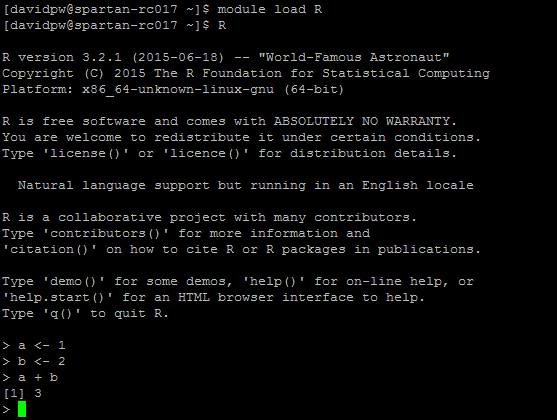
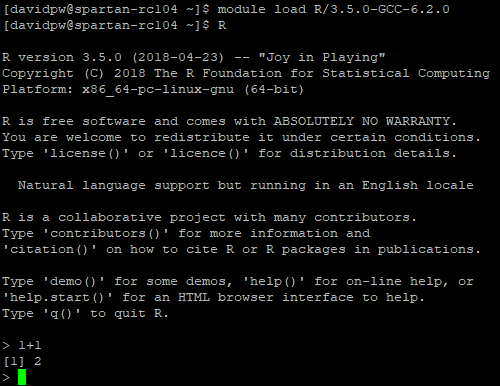
Update Intro to spartan guide and rebuild site

Changed region(s): [[0.0, 0.2798, 0.96, 1.0], [0.0, 0.1244, 0.99, 0.2487], [0.0, 0.0, 0.9, 0.0933]]

diff --git a/docs/introduction-to-spartan.html b/docs/introduction-to-spartan.html
@@ -25,7 +25,7 @@
 <meta name="author" content="David Wilkinson">
 
 
-<meta name="date" content="2018-10-17">
+<meta name="date" content="2019-04-03">
 
   <meta name="viewport" content="width=device-width, initial-scale=1">
   <meta name="apple-mobile-web-app-capable" content="yes">
@@ -217,16 +217,15 @@ code > span.in { color: #60a0b0; font-weight: bold; font-style: italic; } /* Inf
 <img src="Images/spartanlogo.png" />
 </center>
 <hr />
-<p>Spartan is the University of Melbourne’s general purpose hybrid traditional high performance computing system (HPC) with cloud instances from the NeCTAR Research Cloud and attached Research Data Storage Services (RDSS).</p>
+<p>Spartan is the University of Melbourne’s high performance computing system (HPC). It combines high-performance bare-metal compute nodes (somewhere on campus) with cloud instances from the NeCTAR Research Cloud and attached Research Data Storage Services (RDSS).</p>
 <p>It is designed to suit the needs of researchers whose desktop/laptop is not up to the particular task. Models running slow, datasets are too big, not enough cores, application licensing issues, etc.</p>
 <p>Spartan consists of:</p>
 <ul>
 <li>a management node for system administrators,</li>
-<li>a log in node for users to connect to the system and submit jobs,</li>
-<li>a small number of ‘bare metal’ compute nodes for multinode tasks,</li>
-<li>any ‘bare metal’ user-procured hardware (e.g., departmental nodes),</li>
-<li>vHPC cloud compute nodes for overflow and GPGPU tasks, and</li>
-<li>general cloud compute nodes.</li>
+<li>two log in nodes for users to connect to the system and submit jobs,</li>
+<li>‘bare metal’ compute nodes,</li>
+<li>cloud compute nodes, and</li>
+<li>GPUGPU compute nodes.</li>
 </ul>
 </div>
 <div id="accessing-spartan" class="section level2">
@@ -239,7 +238,7 @@ code > span.in { color: #60a0b0; font-weight: bold; font-style: italic; } /* Inf
 <li>Need to create a project</li>
 <li>Need a project leader (you), and you can invite collaborators for joint projects</li>
 <li>Need a project title/description to demonstrate research goals and/or research support</li>
-<li>Takes ~2 days for approval</li>
+<li>Takes ~2 days for approval (as of 2017)</li>
 </ul>
 <hr />
 <center>
@@ -280,7 +279,7 @@ code > span.in { color: #60a0b0; font-weight: bold; font-style: italic; } /* Inf
 <img src="Images/WinSCP_steps.png" />
 </center>
 <hr />
-<p>Inside a WinSCP session you will have dual file explorer windows: your local machine (left) and your Spartan home directory (right). If you have not made your initial log-in to Spartan via your SSH client you will have a blank white screen in the right-hand window. Transferring files between the two directories is achieved with a simple drag-and-drop interface.</p>
+<p>Inside a WinSCP session you will have dual file explorer windows: your local machine (left) and Spartan (right). If you have not made your initial log-in to Spartan via your SSH client you will have a blank white screen in the right-hand window. Transferring files between the two directories is achieved with a simple drag-and-drop interface.</p>
 <hr />
 <center>
 <img src="Images/WinSCP_home.png" />
@@ -303,7 +302,7 @@ code > span.in { color: #60a0b0; font-weight: bold; font-style: italic; } /* Inf
 <img src="Images/terminal_ssh_steps.png" />
 </center>
 <hr />
-<p>As for Windows, your first log-in to Spartan via the SSH client creates your home directory on Spartan so it is important to do that before setting up your SFTP client.</p>
+<p>Same as for Windows, your first log-in to Spartan via the SSH client creates your home directory on Spartan so it is important to do that before setting up your SFTP client.</p>
 <p>SFTP is also installed on most OSX and linux versions, so you could transfer files to Spartan directly from the terminal (do <code>man sftp</code> in the terminal if you’re interested in that). However it’s normally easier to use a SFTP client with a graphical user interface. One nice option for OSX (that also works on Windows) is <a href="https://cyberduck.io">Cyberduck</a>. Once installed, you can add a new connection to Spartan with the following steps:</p>
 <ol style="list-style-type: decimal">
 <li>Clicking on the <code>+</code> in the lower-left corner</li>
@@ -328,13 +327,13 @@ code > span.in { color: #60a0b0; font-weight: bold; font-style: italic; } /* Inf
 </div>
 <div id="log-in-to-spartan" class="section level3">
 <h3><span class="header-section-number">4.2.3</span> Log in to Spartan</h3>
-<p>Now that you have everything in place to access Spartan, open an SSH session (in PuTTY or Terminal). as before, this wont display characters as you type your password.</p>
+<p>Now that you have everything in place to access Spartan, open an SSH session (in PuTTY or Terminal). As before, this wont display characters as you type your password.</p>
 <hr />
 <center>
 <img src="Images/Spartan_log_in.png" />
 </center>
 <hr />
-<p>The text that loads at the beginning gives you the usual university IT policy spiel, a couple of getting started prompts, a warning about the log-in node, and the obligatory 300 reference.</p>
+<p>The text that loads at the beginning gives you the usual university IT policy spiel, a couple of getting started prompts, a warning about the log-in node, and the obligatory 300 reference. It also has a <em>Daily Weather Report</em> updated each morning to show how busy Spartan is. As it is only updated once a day though it is only a rough indication and can vary wildly if lots of jobs start or finish.</p>
 <hr />
 <center>
 <img src="Images/Spartan_300.png" />
@@ -347,7 +346,7 @@ code > span.in { color: #60a0b0; font-weight: bold; font-style: italic; } /* Inf
 <ul>
 <li><code>h</code>: help, shows you the keyboard shortcuts</li>
 <li><code>q</code>: quit the document and go back to the Spartan interface</li>
-<li><code>^</code> is used in place of the control/command button, so <code>^V</code> is Ctrl+V</li>
+<li><code>^</code> is shorthand for the control/command button, so <code>^V</code> is Ctrl+V / Cmd+V</li>
 <li><code>Enter/Return</code> will let you advance by one line</li>
 <li><code>^Y</code> will let you go back by one line</li>
 <li><code>^V</code> will let you advance by one window</li>
@@ -363,12 +362,12 @@ code > span.in { color: #60a0b0; font-weight: bold; font-style: italic; } /* Inf
 </div>
 <div id="using-spartan" class="section level2">
 <h2><span class="header-section-number">4.3</span> Using Spartan</h2>
-<p>The log-in node on Spartan is a shared resource between all users and is only allocated the memory to handle log-ins and job submission. Do not run jobs in the log-in node or the admins will get upset and kill the job. There are two ways to get out of the log-in node and into dedicated compute nodes: <code>sinteractive</code> and <code>sbatch</code>.</p>
+<p>The log-in nodes on Spartan are a shared resource between all users and is only allocated the memory to handle log-ins and job submission. <strong>Do not run jobs in the log-in node or the admins will get upset and kill the job</strong>. There are two ways to get out of the log-in node and into dedicated compute nodes: <code>sinteractive</code> and <code>sbatch</code>.</p>
 <div id="sinteractive" class="section level3">
 <h3><span class="header-section-number">4.3.1</span> sinteractive</h3>
-<p>The <code>sinteractive</code> command will give you access to a compute node (as soon as available) where you can work interactively with your job. While you can submit an entire job in this method, that is better saved for <code>sbatch</code> and <code>sinteractive</code> used for testing/debugging. There are default settings for <code>sinteractive</code> which should be enough for most uses, but they can be modified if needed like so:</p>
+<p>The <code>sinteractive</code> command will give you access to a compute node (as soon as available) where you can work interactively with your job. While you can submit an entire job in this method, that is better saved for <code>sbatch</code> while <code>sinteractive</code> is used for testing/debugging. There are default settings for <code>sinteractive</code> which should be enough for most uses, but they can be modified if needed like so:</p>
 <pre><code>sinteractive --time=00:10:00 --nodes=1 --ntasks=1 --cpus-per-task=2</code></pre>
-<p>This will give you access to one node to perform one task with two processors for ten minutes (default values I think). Lets open a default node and explore some basic commands. Type <code>sinteractive</code>. This submits a request for a default compute node (1), and you have to wait for the resource to become available (2) before you can continue.</p>
+<p>This will give you access to one node to perform one task with two processors for ten minutes (the default values). Lets open a default node and explore some basic commands. Type <code>sinteractive</code>. This submits a request for a default compute node (1), and you have to wait for the resource to become available (2) before you can continue.</p>
 <hr />
 <center>
 <img src="Images/Spartan_sinteractive.png" />
@@ -380,7 +379,8 @@ code > span.in { color: #60a0b0; font-weight: bold; font-style: italic; } /* Inf
 <img src="Images/Spartan_ls.png" />
 </center>
 <hr />
-<p>The <code>cd</code> command will let you change your current directory. As Spartan is Linux based it uses / not  for directories (unlike Windows). The  character is used to say that the preceding term is a special character. Lets change into a sub-folder and see what is inside. Spartan lets you pre-fill file paths/names using the tab key like R, but it will pre-fill everything until a choice needs to be made, and won’t provide options at that stage, but will complete everything once no more divergences exist.</p>
+<p>The <code>cd</code> command will let you change your current directory. As Spartan is Linux based it uses / not \ for directories (unlike Windows). The \ character is used to say that the preceding term is a special character. Lets change into a sub-folder and see what is inside. Spartan lets you pre-fill filepaths/names using the tab key like R but slightly differently. It will pre-fill everything until a choice needs to be made and then pressing the tab key twice will list some options. Once only one exist then it will finish the autocomplete.</p>
+<p>The <code>pwd</code> command prints your current working directory. Lets run a sequence of <code>pwd</code>, <code>cd</code>, and <code>ls</code> to see them in action.</p>
 <hr />
 <center>
 <img src="Images/Spartan_cd.png" />
@@ -392,7 +392,17 @@ code > span.in { color: #60a0b0; font-weight: bold; font-style: italic; } /* Inf
 <img src="Images/Spartan_module_avail.png" />
 </center>
 <hr />
-<p>Loading a particular module requires two commands: <code>module load &lt;module name&gt;</code> (to load the module into the node’s environment) and <code>&lt;module name&gt;</code> (to start the program). To load R for example:</p>
+<p>A massive list of all modules isn’t that useful! We can return more targetted lists either by adding a keyword to <code>module avail</code> or by using <code>module spider</code>. <code>module avail</code> searches for the keyword in the “full” module name so something like <code>module avail R</code> will return every module with the letter <em>r</em> in it so use something more specific like <code>module avail R/3.5</code> instead to return all versions of the R module that are version 3.5.*. <code>module spider</code> is a fuzzy match to the “actual” name of the module so <code>module spider R</code> will return all modules that are the closest match to the keyword, and a list of other module “actual” names that might also match.</p>
+<hr />
+<center>
+<img src="Images/Spartan_module_avail_R.png" />
+</center>
+<hr />
+<center>
+<img src="Images/Spartan_module_spider.png" />
+</center>
+<hr />
+<p>There are two steps to loading a particular module. First, the <code>module load &lt;module&gt;</code> command to load the module into the compute node’s environment, and then <code>&lt;module name&gt;</code> to start the program. If you don’t specify the specific module version in <code>module load &lt;module&gt;</code> then it will load whichever version is set as the default (typically the newest one). For a variety of reasons it is best to always load a specific version! To load R for example:</p>
 <hr />
 <center>
 <img src="Images/Spartan_module_load.png" />
@@ -407,25 +417,41 @@ code > span.in { color: #60a0b0; font-weight: bold; font-style: italic; } /* Inf
 <img src="Images/slurm.jpg" />
 </center>
 <hr />
-<p>This system tracks resources throughout the cluster and builds a queue of jobs to run, and when resources are available the job scheduler will direct your job to a compute node to run.</p>
+<p>This system tracks resources throughout the cluster and manages a queue of jobs. When resources are available the job scheduler will direct your job to a compute node to run.</p>
 <hr />
 <center>
 <img src="Images/Spartan_queue_example.png" />
 </center>
 <hr />
-<p>To submit a job using the <code>sbatch</code> command you need to write a slurm file that sets up your instance (amount of memory, number of processors, etc) and runs your model. Note for Windows users: write these in Notepad++ as Windows and Linux use different line break notation (/r/n vs /n) and standard text files written on Windows won’t run on Spartan.</p>
-<hr />
-<center>
-<img src="Images/Slurm_file_example.png" />
-</center>
-<hr />
-<p>Slurm files can be as simple or as complex as required depending on the job you want to run. Slurm files always need to begin with <code>#!/bin/bash</code> on the first line. Why? It tells the shell what kind of interpretor to run (in this case bash). On subsequent lines you set up your instance first using <code>#SBATCH &lt;your command here&gt;</code> and then the commands to run your job. Some useful <code>#SBATCH</code> commands to consider are:</p>
+<p>To submit a job using the <code>sbatch</code> command you need to write a <code>slurm</code> script that sets up your instance (amount of memory, number of processors, etc) and runs your model. Note for Windows users: write these in Notepad++ as Windows and Linux use different line break notation (/r/n vs /n) and standard text files written on Windows won’t run on Spartan. A basic <code>slurm</code> file for R might look like this (from Spartan’s own examples):</p>
+<div class="sourceCode"><pre class="sourceCode bash"><code class="sourceCode bash"><span class="co">#!/bin/bash</span>
+
+<span class="co"># To give your job a name, replace &quot;MyJob&quot; with an appropriate name</span>
+<span class="co">#SBATCH --job-name=Rsample</span>
+<span class="co">#SBATCH -p cloud</span>
+
+<span class="co"># For R need to run on single CPU</span>
+<span class="co">#SBATCH --ntasks=1</span>
+
+<span class="co"># set your minimum acceptable walltime=hours:minutes:seconds</span>
+<span class="co">#SBATCH -t 0:15:00</span>
+
+<span class="co"># Specify your email address to be notified of progress.</span>
+<span class="co">#SBATCH --mail-user=youreamiladdress@unimelb.edu</span>
+<span class="co">#SBATCH --mail-type=ALL</span>
+
+<span class="co"># Load the environment variables for R</span>
+<span class="ex">module</span> load R/3.5.0-spartan_gcc-6.2.0 
+
+<span class="co"># The command to actually run the job</span>
+<span class="ex">R</span> --vanilla <span class="op">&lt;</span> tutorial.R </code></pre></div>
+<p><code>slurm</code> scripts can be as simple or as complex as required depending on the job you want to run. <code>slurm</code> scripts always need to begin with <code>#!/bin/bash</code> on the first line. Why? It tells the shell what kind of interpretor to run (in this case <code>bash</code>). Like <code>R</code>, anything following a <code>#</code> in <code>bash</code>/<code>slurm</code> is interpreted as a comment. However, <code>#SBATCH</code> is recognised as special syntax to control job parameters. You can mix commented lines, <code>#SBATCH</code> lines, and empty lines at the start of your script, but once the first “actual command” is run all subsequent <code>#SBATCH</code> lines are treated as comments only. Some useful <code>#SBATCH</code> commands to consider are:</p>
 <ul>
 <li><code>#SBATCH --job-name=&lt;name&gt;</code>: Lets you give your job a name alongside its job id. Useful if you’re running lots of jobs at once. By default it sets it to your file name, or replace <name> with your name of choice like this:</li>
 </ul>
 <pre><code>#SBATCH --job-name=MyJob</code></pre>
 <ul>
-<li><code>#SBATCH -p &lt;partition&gt;</code>: This is where you select which partition on Spartan your job will run. For most jobs you will set your partition as <code>cloud</code> which can run single node jobs of up to 8 CPUs and up to 50GB of memory. For multi-node jobs or &gt;50GB of memory set it as <code>physical</code> (up to 200GB), and if you have access to a dedicated partition then use <code>your partition name</code>. In most cases you will use the following:</li>
+<li><code>#SBATCH -p &lt;partition&gt;</code>: This is where you select which partition on Spartan your job will run. The <code>cloud</code> partition can only run single node jobs of up to 12 CPUs and 100GB of memory. The <code>physical</code> partition can run single or multi-node jobs of up to 12CPUS and 250GB of memory. There are also other specialty partitions with larger requirements (up to 1500GB of memory) or GPUs as well. If you have access to a dedicated partition then use <code>your partition name</code>. In most cases you will use the following:</li>
 </ul>
 <pre><code>#SBATCH -p cloud</code></pre>
 <ul>
@@ -433,7 +459,7 @@ code > span.in { color: #60a0b0; font-weight: bold; font-style: italic; } /* Inf
 </ul>
 <pre><code>#SBATCH --time=01:00:00   # hours:minutes:seconds format</code></pre>
 <ul>
-<li><code>#SBATCH --nodes=&lt;number&gt;</code>: You need to request an allocation of compute nodes. Most jobs will be single node jobs, but there is the ability to run jobs over multiple nodes that talk to each other. It is not recommended to try running multiple communicating nodes via the cloud partition, use the physical partition instead. To call a single node use the following:</li>
+<li><code>#SBATCH --nodes=&lt;number&gt;</code>: You need to request an allocation of compute nodes. Most jobs will be single node jobs, but there is the ability to run jobs over multiple nodes that talk to each other. It is not recommended to try running multiple communicating nodes via the cloud partition, use the physical partition instead. Multi-node jobs will require using <code>OpenMPI</code> to allow the different nodes to communicate. To call a single node use the following:</li>
 </ul>
 <pre><code>#SBATCH --nodes=1</code></pre>
 <ul>
@@ -441,11 +467,11 @@ code > span.in { color: #60a0b0; font-weight: bold; font-style: italic; } /* Inf
 </ul>
 <pre><code>#SBATCH --ntasks=1</code></pre>
 <ul>
-<li><code>#SBATCH --cpus-per-task=&lt;number&gt;</code>: This informs the SLURM controller that each task will need <em>number</em> of processors per task. Cloud nodes have access to eight cores each. To allocate four processors (like on a quad-core desktop without multi-threading) you would set:</li>
+<li><code>#SBATCH --cpus-per-task=&lt;number&gt;</code>: This informs the SLURM controller that each task will need <em>number</em> of processors per task. To allocate four processors (like on a quad-core desktop without multi-threading) you would set:</li>
 </ul>
 <pre><code>#SBATCH --cpus-per-task=4</code></pre>
 <ul>
-<li><code>#SBATCH --mem=&lt;number&gt;</code>: This is where you nominate the maximum amount of memory required per node (in megabytes). Cloud nodes have access to up to 50GB of memory, physical nodes are used for large jobs of up to 200GB. To request 10GB of memory (remembering that 1GB = 1024MB) you would use:</li>
+<li><code>#SBATCH --mem=&lt;number&gt;</code>: This is where you nominate the maximum amount of memory required per node (in megabytes). Cloud nodes have access to up to 100GB of memory, standard physical nodes are used for large jobs of up to 250GB. Some physical nodes and other specialist partitions will have much larger limits (up to 1500GB). To request 10GB of memory (remembering that 1GB = 1024MB) you would use:</li>
 </ul>
 <pre><code>#SBATCH --mem=10240</code></pre>
 <ul>
@@ -464,17 +490,13 @@ code > span.in { color: #60a0b0; font-weight: bold; font-style: italic; } /* Inf
 </ul>
 <pre><code>#SBATCH --mail-user=&lt;your email here&gt;
 #SBATCH --mail-type=ALL,TIME_LIMIT_90</code></pre>
-<p>After setting up your instance you then need to supply the instructions for what you want your job to do. This will often just be a change of directory, loading the module (program) you need, and calling the script you want to run. Calling the script you want to run follows a set format of commands: <module name> [options] [&lt; infile] [&gt; out-file].The first two of these are covered earlier, so lets look at complete example for R before looking at options in more details:</p>
-<pre><code>cd Coding\ Club/R/
-module load R
-R --vanilla &lt; tutorial.R</code></pre>
-<p>As you can see this merges the second command in loading a module with loading a script. You can see the different options available for calling an R script using <code>man R</code> (after loading the module into the environment). Some useful options include:</p>
+<p>After setting up your instance you then need to supply the instructions for what you want your job to do. This will often just be a change of directory, loading the module (program) you need, and calling the script you want to run. TO run an <code>R</code> script you can either use <code>R --vanilla &lt; file.R</code> or <code>Rscript --vanilla file.R</code>. The former echos your input statements in your output file while the second option (my preferred method) does not. Not all modules have two formats available (so check <code>man &lt;modulename&gt;</code>), but they all allow the former (from memory).</p>
+<p>You can see the different options available for calling an R script using <code>man R</code> (after loading the module into the environment). Some useful options include:</p>
 <ul>
 <li><code>--save</code>: Save workspace at the end of the session</li>
 <li><code>--no-save</code>: Don’t save workspace at the end of the session</li>
 <li><code>--vanilla</code>: A wrapper around <code>--no-save</code> and a few other commands useful for starting R as a blank slate (no loading pre-saved objects, etc)</li>
 </ul>
-<p><code>&lt; infile</code> is where you call the script you want to run e.g. <code>&lt; myFile.R</code>, and <code>&gt; outfile</code> presumably lets you set specific output files (it isn’t compulsory, and I’ve never had reason to use it).</p>
 <p>Now we can put all of this together to create our SLURM file:</p>
 <div class="sourceCode"><pre class="sourceCode r"><code class="sourceCode r"><span class="co">#!/bin/bash</span>
 
@@ -492,9 +514,9 @@ R --vanilla &lt; tutorial.R</code></pre>
 <span class="co">#SBATCH --mail-user=&quot;davidpw@student.unimelb.edu.au&quot;</span>
 <span class="co">#SBATCH --mail-type=ALL</span>
 
-module load R
+module load R<span class="op">/</span><span class="fl">3.5</span>.<span class="dv">0</span><span class="op">-</span>GCC<span class="op">-</span><span class="fl">6.2</span>.<span class="dv">0</span>
 
-R <span class="op">--</span>vanilla <span class="op">&lt;</span><span class="st"> </span>tutorial.R </code></pre></div>
+Rscript <span class="op">--</span>vanilla tutorial.R </code></pre></div>
 <p>Assuming this Slurm file is named “MyFile.slurm”, you can submit your job to the queue from the log-in node using the following command</p>
 <pre><code>sbatch MyFile.slurm</code></pre>
 <hr />
@@ -530,8 +552,8 @@ R <span class="op">--</span>vanilla <span class="op">&lt;</span><span class="st"
 <hr />
 <ul>
 <li><p><code>head &lt;filename&gt;</code> and <code>tail &lt;filename&gt;</code>: Print the first/last ten lines of a file</p></li>
-<li><p><code>history</code>: List commands you’ve used previously. You can navigate previous commands in your current session using the up/down keys like in R, but this lists previous commands over previous sessions as well</p></li>
-<li><p><code>echo &lt;text&gt;</code>: Prints text. Useful for debugging</p></li>
+<li><p><code>history</code>: List commands you’ve used previously. You can navigate previous commands in your current session using the up/down keys like in <code>R</code>, but this lists previous commands over previous sessions as well</p></li>
+<li><p><code>echo &lt;text&gt;</code>: Prints text</p></li>
 <li><code>squeue</code>: This command is used for checking on job status.
 <ul>
 <li><code>squeue</code>: This base command will show all jobs in the queue for all users</li>
@@ -545,6 +567,12 @@ R <span class="op">--</span>vanilla <span class="op">&lt;</span><span class="st"
 </center>
 <hr />
 <ul>
+<li><code>showq</code>: This command displays the <em>actual</em> queue and splits it into <code>ACTIVE</code>, <code>WAITING</code>, and <code>BLOCKED</code> jobs. <code>ACTIVE</code> jobs are those currently running. <code>WAITING</code> jobs are those “next in line” pending resource availability, and no user can have more than five jobs here. <code>BLOCKED</code> jobs are those in the queue but not in the “priority” <code>WAITING</code> area.
+<ul>
+<li><code>showq</code>: This base command will show all jobs for all users in <code>ACTIVE</code> and <code>WAITING</code> but only a user’s <code>BLOCKED</code> jobs</li>
+<li><code>showq -u &lt;username&gt;</code>: This will show all jobs for a particular user</li>
+<li><code>showq -p &lt;partition&gt;</code>: This will show all jobs running on a given partition, but more importantly provides more up to date information regarding the usage/availability of that partition than the Daily Weather Report</li>
+</ul></li>
 <li><code>scancel</code>: This command is used for cancelling jobs in the queue. For example:
 <ul>
 <li><code>scancel -u &lt;username&gt;</code>: cancels all jobs for that username</li>
@@ -577,6 +605,7 @@ R <span class="op">--</span>vanilla <span class="op">&lt;</span><span class="st"
 <li>There are simple example slurm files for the most common modules at <code>/usr/local/common/</code> (including R, MATLAB, and Python)</li>
 <li><a href="https://dashboard.hpc.unimelb.edu.au/spartan-faq">Online Spartan FAQ</a>. Same as using <code>man spartan</code></li>
 <li><a href="http://www.ceci-hpc.be/slurm_faq.html">Online SLURM FAQ</a></li>
+<li><a href="https://dashboard.hpc.unimelb.edu.au/guides/script_generator/">Online SLURM script generator</a>. Simple jobs only though!</li>
 <li><code>srun</code> and <code>salloc</code> functions are used for parallel jobs</li>
 <li><a href="https://slurm.schedmd.com/mc_support.html">Support for multi-core/multi-threaded architecture</a></li>
 <li><a href="https://cran.r-project.org/web/packages/rslurm/vignettes/rslurm-vignette.html">Running R in parallel using the rslurm package</a></li>

diff --git a/docs/installing-r-packages-on-spartan.html b/docs/installing-r-packages-on-spartan.html
@@ -25,7 +25,7 @@
 <meta name="author" content="David Wilkinson">
 
 
-<meta name="date" content="2018-10-17">
+<meta name="date" content="2019-04-03">
 
   <meta name="viewport" content="width=device-width, initial-scale=1">
   <meta name="apple-mobile-web-app-capable" content="yes">
@@ -292,7 +292,7 @@ export R_LIBS_USER=<span class="st">&quot;Personal library path here&quot;</span
 <p>And follow the prompts to exit and save (<code>^X</code> means <code>Control + X</code> or <code>Command + X</code>).</p>
 <p>Now each time we open a new environment on Spartan we export the <code>R_LIBS_USER</code> variable (which sets R’s library paths) into the new environment automatically. We can supply any number of library paths to this variable as long as they are each within <code>&quot; &quot;</code> and separated from each other by <code>:</code>. In this example we set two library paths: our personal library path and then the default Spartan library (for a specifc R version module).</p>
 <p>Changes to the <code>.bash_profile</code> file don’t take effect until our next log-in to Spartan, so if we log-out and back in again our changes come into effect and we are now free to install and load packages to/from our user-specific library.</p>
-<p>The <code>.bash_profile</code> method is perfetly fine as long as you only need to have a single personal library. You will need to update it anytime you switch to a new R version module.</p>
+<p>The <code>.bash_profile</code> method is perfectly fine as long as you only need to have a single personal library. You will need to update it anytime you switch to a new R version module. It is important to note that the <code>.bash_profile</code> method can cause you problems if the R module version you load is different from the library path in your <code>.bash_profile</code>. This is because the <code>.bash_profile</code> library path (say, 3.4) will get loaded even if incompatible with the loaded module (say, 3.5). This will cause problems even if you define a library path manually in the R session.</p>
 <hr />
 </div>
 </div>

diff --git a/docs/index.html b/docs/index.html
@@ -25,7 +25,7 @@
 <meta name="author" content="David Wilkinson">
 
 
-<meta name="date" content="2018-10-17">
+<meta name="date" content="2019-04-03">
 
   <meta name="viewport" content="width=device-width, initial-scale=1">
   <meta name="apple-mobile-web-app-capable" content="yes">
@@ -211,7 +211,7 @@ code > span.in { color: #60a0b0; font-weight: bold; font-style: italic; } /* Inf
 <h1 class="title">lodestar</h1>
 <h3 class="subtitle"><em>A collection of guides and tutorials I’ve put together</em></h3>
 <h4 class="author"><em>David Wilkinson</em></h4>
-<h4 class="date"><em>2018-10-17</em></h4>
+<h4 class="date"><em>2019-04-03</em></h4>
 </div>
 <div id="what-is-lodestar" class="section level1">
 <h1><span class="header-section-number">1</span> What is <em>lodestar</em>?</h1>

diff --git a/docs/fitting-occupancy-models-with-unmarked.html b/docs/fitting-occupancy-models-with-unmarked.html
@@ -25,7 +25,7 @@
 <meta name="author" content="David Wilkinson">
 
 
-<meta name="date" content="2018-10-17">
+<meta name="date" content="2019-04-03">
 
   <meta name="viewport" content="width=device-width, initial-scale=1">
   <meta name="apple-mobile-web-app-capable" content="yes">

diff --git a/docs/r-file-directory-interface-commands.html b/docs/r-file-directory-interface-commands.html
@@ -25,7 +25,7 @@
 <meta name="author" content="David Wilkinson">
 
 
-<meta name="date" content="2018-10-17">
+<meta name="date" content="2019-04-03">
 
   <meta name="viewport" content="width=device-width, initial-scale=1">
   <meta name="apple-mobile-web-app-capable" content="yes">

diff --git a/docs/rstudio-tips-and-tricks.html b/docs/rstudio-tips-and-tricks.html
@@ -25,7 +25,7 @@
 <meta name="author" content="David Wilkinson">
 
 
-<meta name="date" content="2018-10-17">
+<meta name="date" content="2019-04-03">
 
   <meta name="viewport" content="width=device-width, initial-scale=1">
   <meta name="apple-mobile-web-app-capable" content="yes">

diff --git a/docs/version-control-with-rstudio.html b/docs/version-control-with-rstudio.html
@@ -25,7 +25,7 @@
 <meta name="author" content="David Wilkinson">
 
 
-<meta name="date" content="2018-10-17">
+<meta name="date" content="2019-04-03">
 
   <meta name="viewport" content="width=device-width, initial-scale=1">
   <meta name="apple-mobile-web-app-capable" content="yes">
